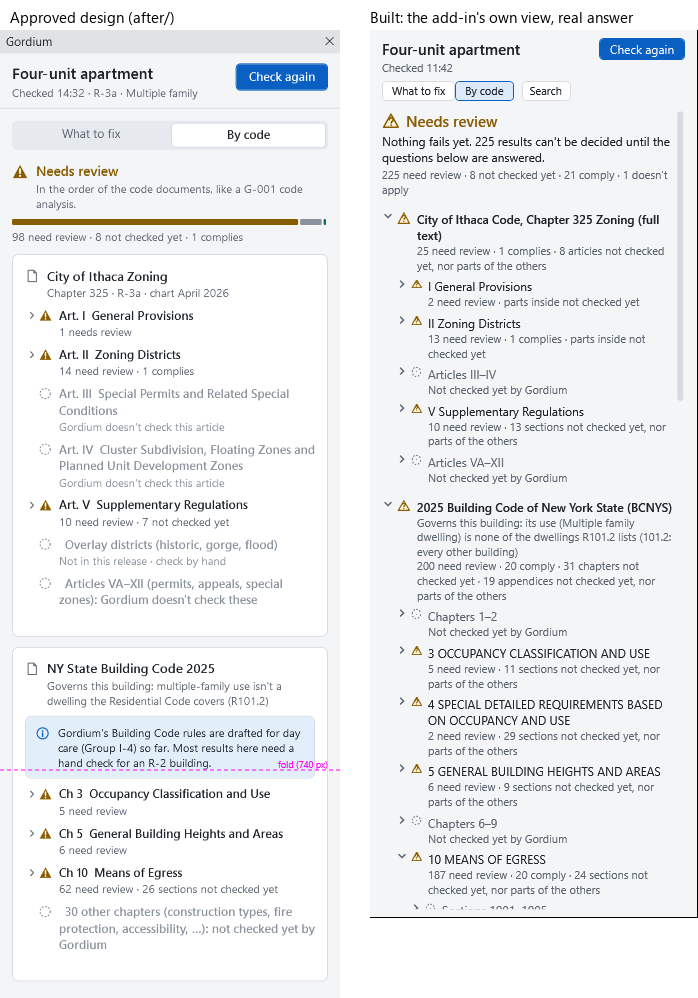
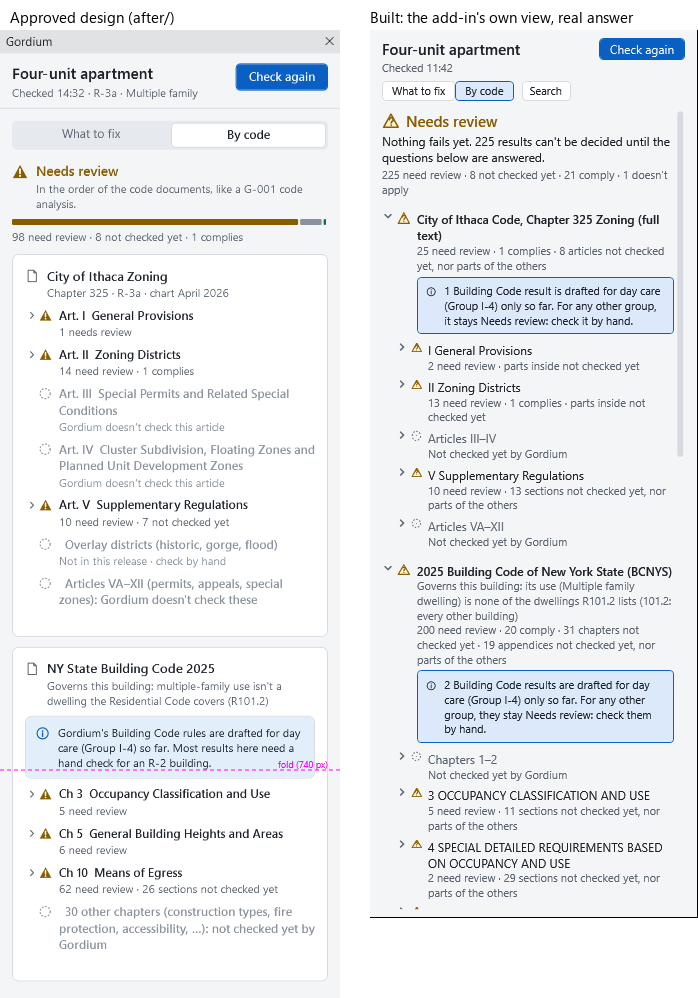
fix: short review after #182: the renders draw the scope note where it shows (the answer changed one way) and check it is drawn under each book and in the card; the per-book counts pinned on Chapter 10 rows; comments say no New York rule says the words since #182

Changed region(s): [[0.5716, 0.2796, 0.9628, 0.9008], [0.9628, 0.4038, 0.9928, 0.4659]]

diff --git a/apps/revit_addin/tools/pane_renders/Program.cs b/apps/revit_addin/tools/pane_renders/Program.cs
@@ -39,6 +39,9 @@ internal static class Program
         var houseAfter = Load(Path.Combine(answers, "ithaca_106_house_after_check_answer.json"));
         var childcare = Load(Path.Combine(answers, "children_odyssey_check_answer.json"));
         var apartment = Load(Path.Combine(answers, "four_unit_apartment_check_answer.json"));
+        // the same answer with two Chapter 10 results and the corner-lot question's result saying their rules are drafted
+        // for Group I-4 only (since #182 no real result says it): what the scope note looks like where it shows
+        var apartmentScoped = LoadSaying(Path.Combine(answers, "four_unit_apartment_check_answer.json"));
         // the four-unit apartment's Setup records (Ben's Revit trial, 2026-11-23): the Building Code governs its use
         foreach (var (n, r) in new[] { ("house", house), ("childcare", childcare) })
         {
@@ -176,6 +179,23 @@ internal static class Program
                         p.Answer();
                         Settle(p.View);
                         Check(FindAll<ComboBox>(p.View).Any(c => c.IsVisible), "18: Answer N questions goes back to the questions card, open");
+                    });
+                    // the scope note where it shows (the answer changed one way): once under the Building Code in By code, and
+                    // in the questions card for the card's own result
+                    var scopedRows = ResultRows.Build(apartmentScoped, "New Construction", [], null);
+                    Step(make(theme, []), "14s_by_code_scope_note_apartment", 900, dark, p =>
+                    {
+                        p.Show(title, when, scopedRows, Labels(apartmentScoped), questions);
+                        p.UseView(ResultsViewKind.ByCode);
+                        Settle(p.View);
+                        var notes = FindAll<Border>(p.View).Where(b => b.IsVisible && Equals(b.Tag, EntryView.ScopeTag)).ToList();
+                        Check(notes.Count == 2, $"14s: the scope note under each book whose results say it ({notes.Count})");
+                    });
+                    Step(make(theme, []), "16s_questions_scope_note_apartment", 1100, dark, p =>
+                    {
+                        p.Show(title, when, scopedRows, Labels(apartmentScoped), questions);
+                        Settle(p.View);
+                        Check(FindAll<Border>(p.View).Any(b => b.IsVisible && Equals(b.Tag, EntryView.ScopeTag)), "16s: the scope note in the card, for its own result");
                     });
                     Step(make(theme, []), "15_by_code_stale_apartment", 900, dark, p =>
                     {
@@ -420,6 +440,21 @@ internal static class Program
 
     private static string TextOf(TextBlock t) =>
         t.Text is { Length: > 0 } x ? x : new System.Windows.Documents.TextRange(t.ContentStart, t.ContentEnd).Text;
+
+    internal static CheckResult LoadSaying(string path)
+    {
+        var node = System.Text.Json.Nodes.JsonNode.Parse(File.ReadAllText(path, Encoding.UTF8))!;
+        var items = node["result"]!["view"]!["items"]!.AsArray();
+        var picked = items.Where(i => (string?)i!["in_code"]?["chapter"] == "10"
+                                      && ((string?)i!["in_code"]?["document"])?.StartsWith("2025 Building Code", StringComparison.Ordinal) == true
+                                      && i!["asks"] is System.Text.Json.Nodes.JsonArray a && a.All(x => (string?)x!["kind"] != "mark")).Take(2)
+                          .Concat(items.Where(i => i!["asks"] is System.Text.Json.Nodes.JsonArray a && a.Any(x => (string?)x!["field"] == "facts.corner_lot")).Take(1));
+        foreach (var i in picked)
+            i!["reason"] = "the building holds another occupancy: this rulebook's rules are " + ResultViews.DraftedFor + ", so a person checks";
+        var doc = JsonDocument.Parse(node.ToJsonString());
+        return (CheckResult)typeof(CheckResult).GetMethod("Parse", BindingFlags.NonPublic | BindingFlags.Static)!
+            .Invoke(null, [new WorkerAnswer(doc.RootElement.GetProperty("result").Clone(), About)])!;
+    }
 
     internal static CheckResult Load(string path)
     {

diff --git a/apps/revit_addin/tests/Gordium.Revit.Reading.Tests/DetailPageTests.cs b/apps/revit_addin/tests/Gordium.Revit.Reading.Tests/DetailPageTests.cs
@@ -223,7 +223,7 @@ public sealed class DetailPageTests
         Assert.Equal(answers.Cards.Count - ProjectQuestions.ShownAtFirst, more.Hidden);
         var foot = Assert.Single(first.OfType<AnswerFootEntry>());
         Assert.Equal(answers.Cards.Count, foot.Questions.Count);                // Save covers every question, shown or not
-        // the card's scope note counts only its own results (the apartment's two I-4-only rows ask no question)
+        // the card's scope note counts only its own results (none of them says it on the real answer)
         var scopedInCard = answers.Rows.Count(r => m.Views!.Scoped.Contains(r.Id));
         Assert.Equal(scopedInCard == 0 ? null : ResultViews.ScopeWords(scopedInCard), foot.Scope);
         Assert.Equal(answers.Cards.Count, Lay(open.Append(ResultViewList.MoreQuestionsKey)).OfType<QuestionEntry>().Count());
@@ -357,10 +357,10 @@ public sealed class DetailPageTests
         var m = Apartment();
         Assert.Equal(SaysIt(m), m.Views!.Scoped.Count);
         Assert.Null(Lay(m).OfType<AnswerFootEntry>().Single().Scope);
-        // two egress results (no question of their own) say it: the book says it, the card doesn't
+        // two Chapter 10 egress results (no question of their own) say it: the book says it, the card doesn't
         var inCard = Answers(m).Rows.Select(r => r.Id).ToHashSet(StringComparer.Ordinal);
         bool Egress(System.Text.Json.Nodes.JsonNode i) => ((string?)i["in_code"]?["document"])?.StartsWith("2025 Building Code", StringComparison.Ordinal) == true
-            && !inCard.Contains((string)i["id"]!);
+            && (string?)i["in_code"]?["chapter"] == "10" && !inCard.Contains((string)i["id"]!);
         var two = ApartmentSaying(Egress, 2);
         Assert.Equal(2, two.Views!.Scoped.Count);
         Assert.Null(Lay(two).OfType<AnswerFootEntry>().Single().Scope);
@@ -370,6 +370,9 @@ public sealed class DetailPageTests
         var three = ApartmentSaying(i => firstTwo.Contains((string)i["id"]!) || (string)i["id"]! == corner, 3);
         Assert.Equal(3, three.Views!.Scoped.Count);
         Assert.Equal(ResultViews.ScopeWords(1), Lay(three).OfType<AnswerFootEntry>().Single().Scope);
+        // each book says its own count (the corner-lot result is the zoning chapter's)
+        Assert.Equal(ResultViews.ScopeWords(2), three.Views.Code.Single(d => d.Title.StartsWith("2025 Building Code", StringComparison.Ordinal)).Scope);
+        Assert.Equal(ResultViews.ScopeWords(1), three.Views.Code.Single(d => d.Title.StartsWith("City of Ithaca", StringComparison.Ordinal)).Scope);
     }
 
     [Fact]

diff --git a/apps/revit_addin/src/Gordium.Revit.Reading/ResultViews.cs b/apps/revit_addin/src/Gordium.Revit.Reading/ResultViews.cs
@@ -120,8 +120,9 @@ public static class ResultViews
 
     // ---- the scope note (change 24) ---------------------------------------------------------------------------
 
-    /// <summary>The checker's words for a rule drafted for one occupancy group only (design_checker/egress.py FLAG_WHY
-    /// and the rulebook's notes: "this rulebook's rules are drafted for Group I-4 only").</summary>
+    /// <summary>The checker's words for a rule drafted for one occupancy group only ("this rulebook's rules are drafted
+    /// for Group I-4 only", in a result's reason or an ask's why). Since #182 no New York rule says them; the note stays
+    /// for a rulebook that does, and shows only then.</summary>
     public const string DraftedFor = "drafted for Group I-4 only";
 
     /// <summary>Whether the checker says of this row (its reason, or an ask's why) that its rules are drafted for Group
@@ -135,8 +136,7 @@ public static class ResultViews
     }
 
     /// <summary>The scope note in words, for the results that say it: how many, and what to do. Said of those results
-    /// only, never of all egress (the Chapter 10 rules now cover every group; only a few, such as the mixed-occupancy
-    /// story exits, are still drafted for Group I-4 alone).</summary>
+    /// only, never of all egress (the Chapter 10 rules cover every group since #181 and #182).</summary>
     public static string ScopeWords(int results) =>
         (results == 1 ? "1 Building Code result is" : $"{results} Building Code results are") +
         " drafted for day care (Group I-4) only so far. For any other group, " + (results == 1 ? "it stays" : "they stay") +
